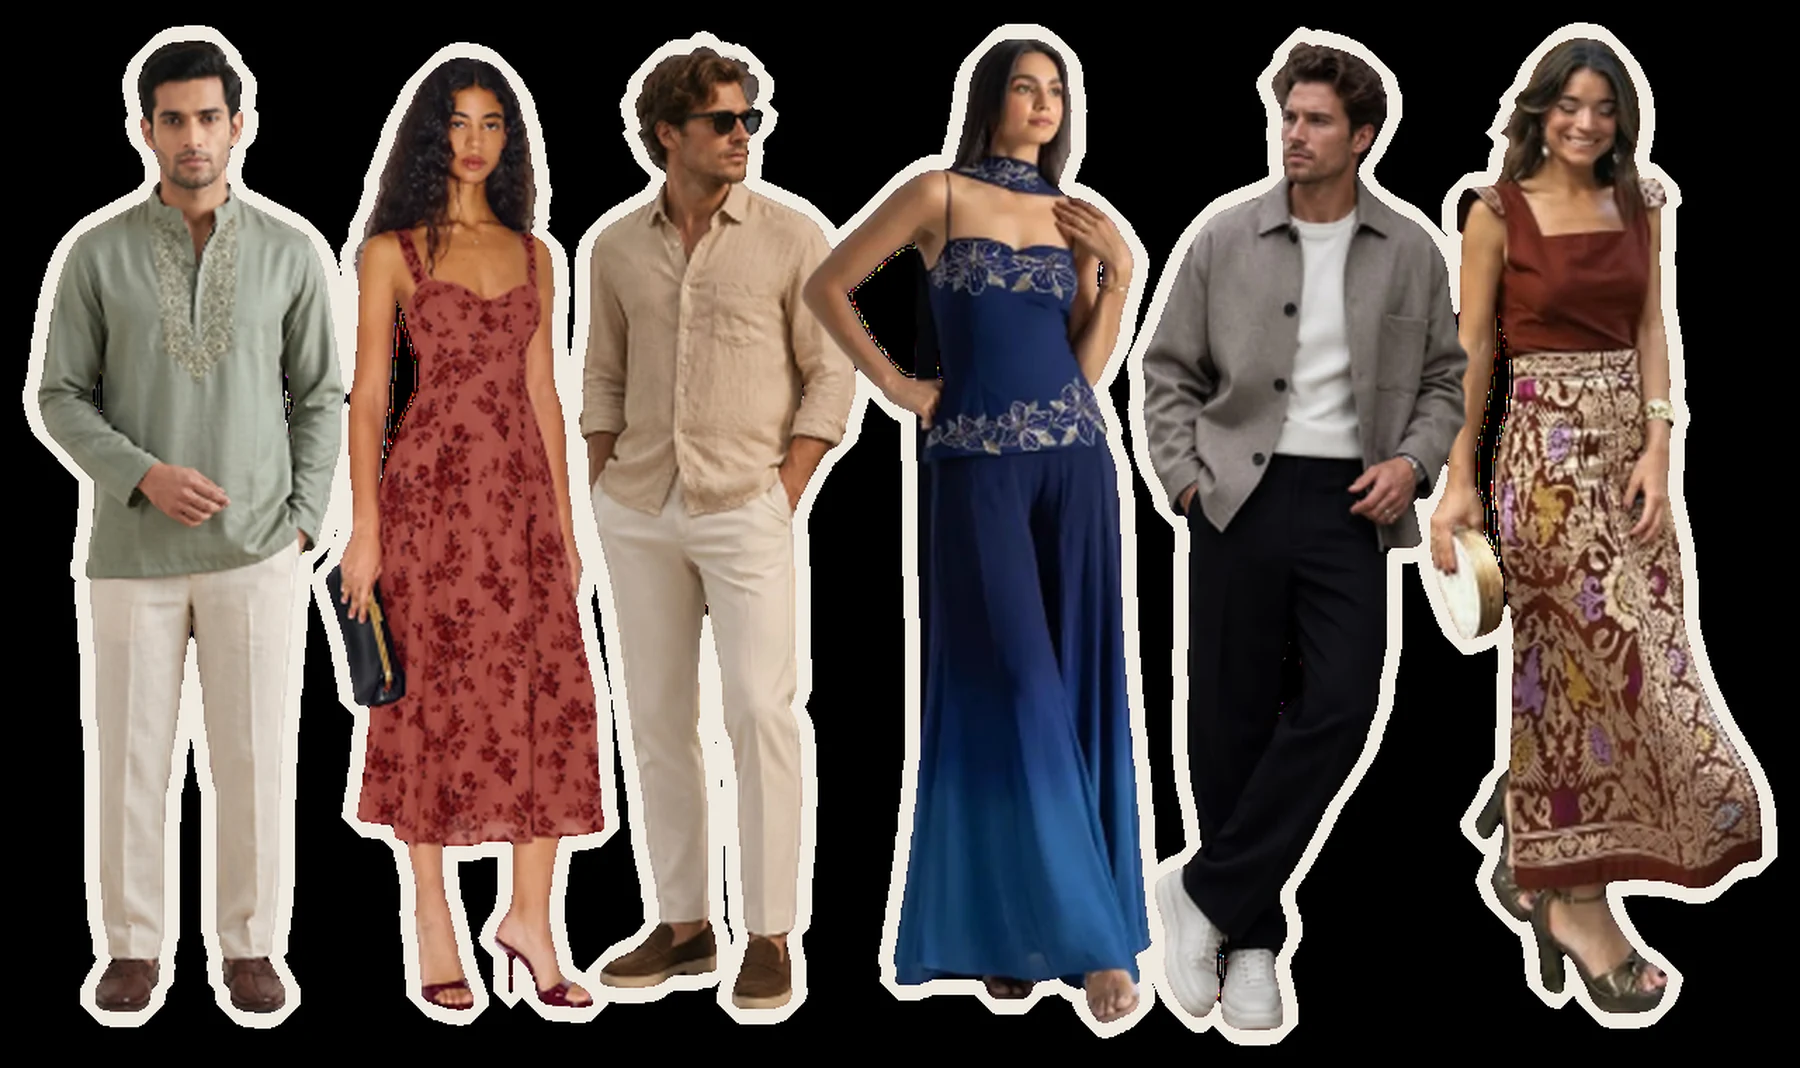
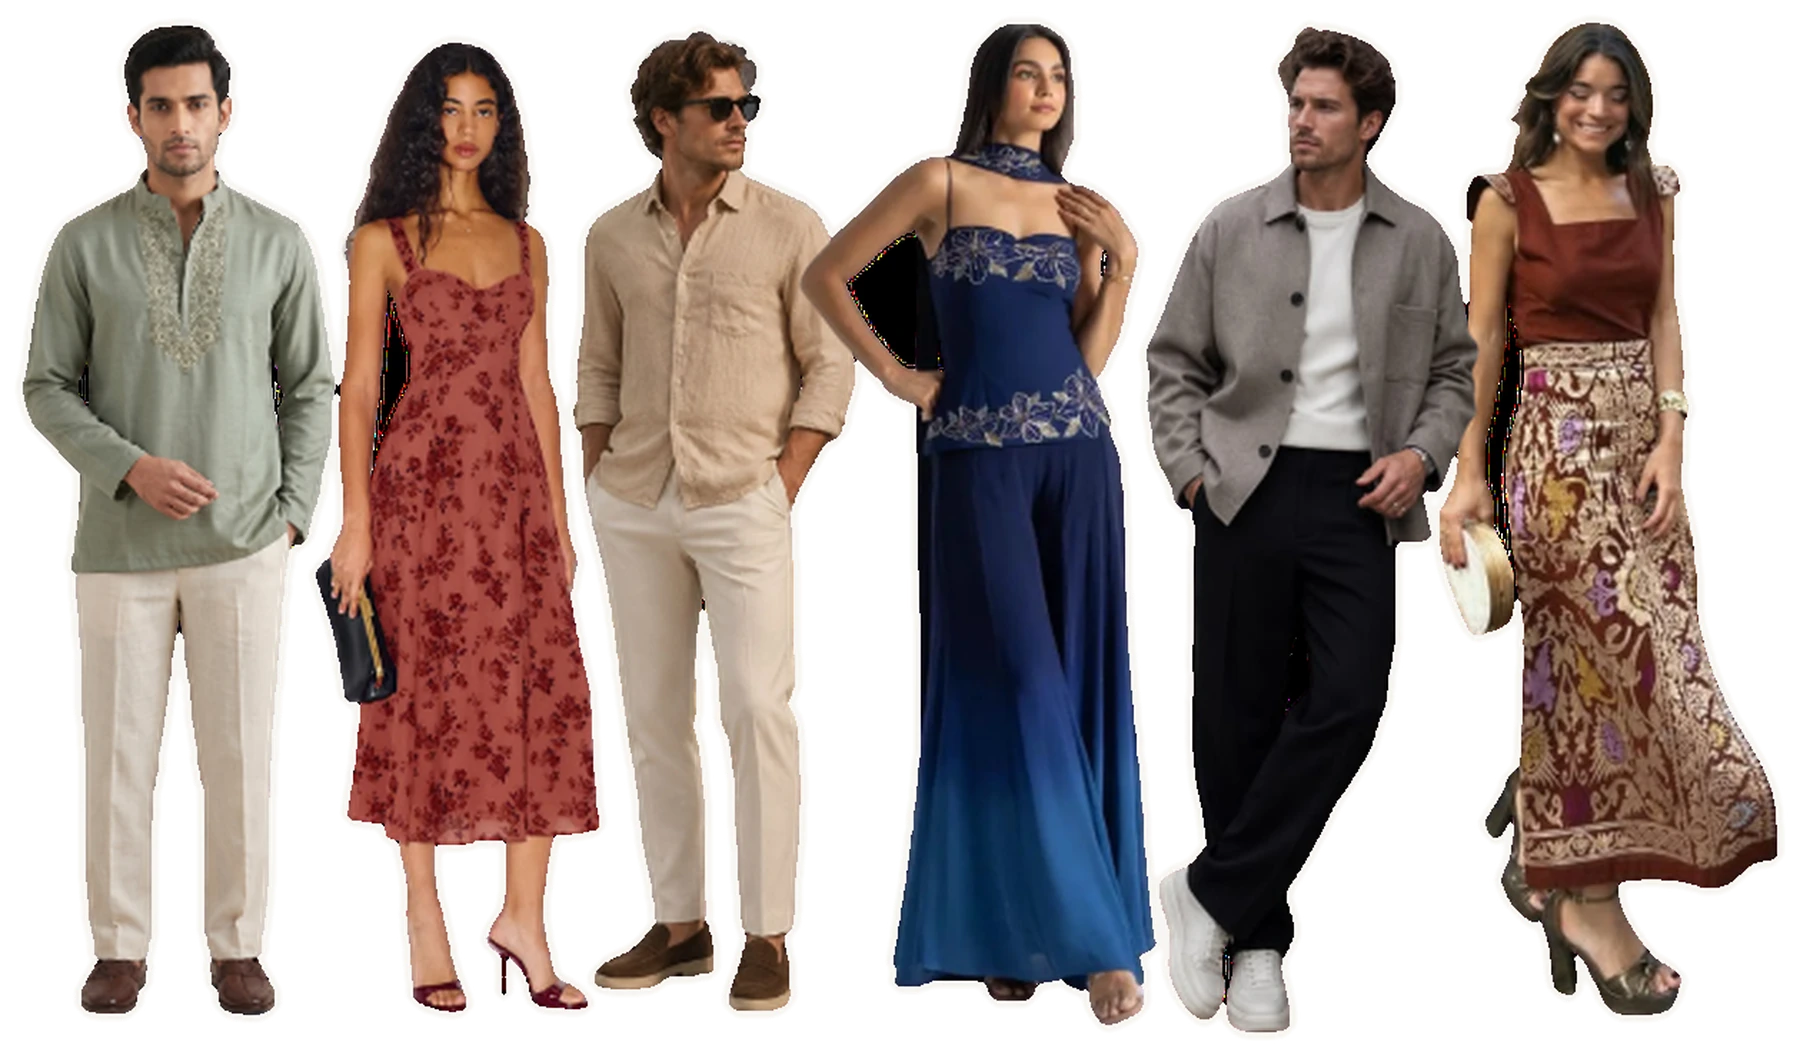
Make Friday Night attire transparent with a thinner, smoother border.

diff --git a/index.html b/index.html
@@ -1382,7 +1382,7 @@ picture{margin-block:clamp(52px,8vw,104px);}
 <div class="journey-rail">
 <article class="leg" data-tab="Friday Night">
 <div class="leg-body">
-<picture><source srcset="img/look-welcome-sm.webp?v=4 900w, img/look-welcome.webp?v=4 1800w" sizes="(max-width:760px) 100vw, 44rem" type="image/webp"><img src="img/look-welcome.png?v=4" width="900" height="534" decoding="async" alt="Six guests in festive Friday-night looks: an embroidered kurta, cocktail dresses, a navy embroidered set, a patterned skirt, and easy shirts with trousers."></picture>
+<picture><source srcset="img/look-welcome-sm.webp?v=5 900w, img/look-welcome.webp?v=5 1800w" sizes="(max-width:760px) 100vw, 44rem" type="image/webp"><img src="img/look-welcome.png?v=5" width="900" height="531" decoding="async" alt="Six guests in festive Friday-night looks: an embroidered kurta, cocktail dresses, a navy embroidered set, a patterned skirt, and easy shirts with trousers."></picture>
 <p class="when">Semi-Formal Western or Indian</p>
 <ul class="gems"><li>Cocktail dresses, skirts, anarkalis, button-downs &amp; light jackets.</li><li>Whatever colors you want!</li><li>Evening vacation outfit, slightly elevated! Avoid pointy heels.</li></ul>
 <p class="ps">P.S. Images are for inspiration purposes. We want you to wear something that fits your personal style, you feel comfortable in, and might already be in your closet!</p>
